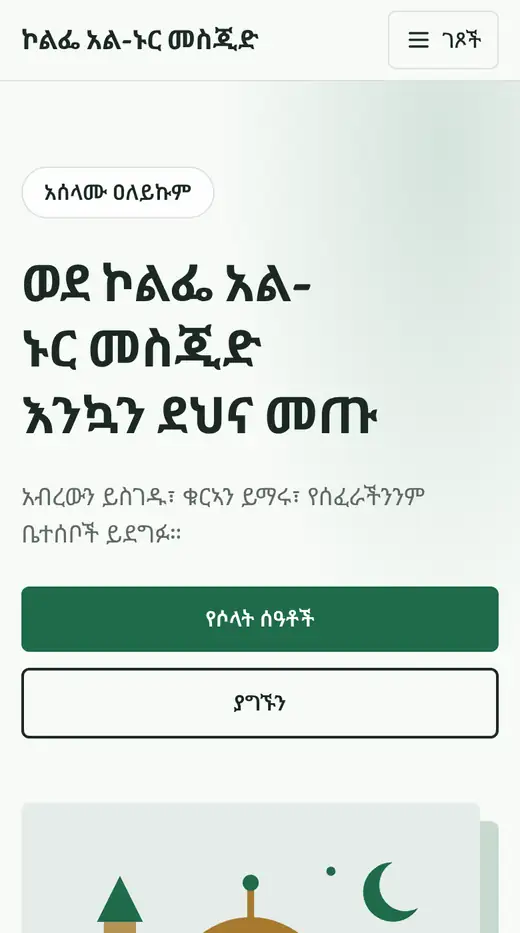
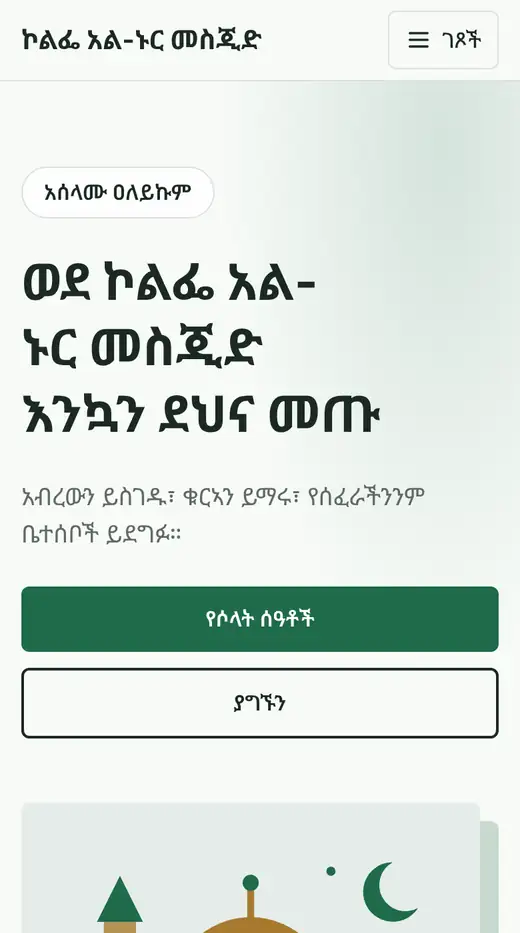
Site template: Amharic pages no longer download the Latin heading font
A heading's spaces alone made the browser fetch it (about 35 KB) and its
arrival shifted the page (performance review). The call bar is opaque,
without a blur. Landing pictures retaken.

Claude-Session: https://claude.ai/code/session_01Eww5A6exJRk8PPreQ8ZqhP

diff --git a/templates/site/src/lib/theme.ts b/templates/site/src/lib/theme.ts
@@ -13,7 +13,7 @@ const fonts: Record<Theme["font"], { heading: string; body: string }> = {
     body: 'system-ui, "Segoe UI", Roboto, "Noto Sans Ethiopic", sans-serif',
   },
   friendly: {
-    heading: '"Nunito", ui-rounded, "SF Pro Rounded", "Nunito", system-ui, "Noto Sans Ethiopic", sans-serif',
+    heading: '"Nunito", ui-rounded, "SF Pro Rounded", system-ui, "Noto Sans Ethiopic", sans-serif',
     body: 'system-ui, "Segoe UI", Roboto, "Noto Sans Ethiopic", sans-serif',
   },
 };
@@ -37,7 +37,9 @@ export function themeVariables(theme: Theme, lang: Lang): Record<string, string>
     "--site-line": tint(theme.text, 0.85),
     "--site-focus": focusColor(theme),
     "--site-radius": radii[theme.radius],
-    "--site-font-heading": amharicFirst + fonts[theme.font].heading,
+    // Amharic pages skip the Latin display font: a heading's spaces alone would make the
+    // browser download it, and its arrival would shift the page.
+    "--site-font-heading": lang === "am" ? amharicFirst + fonts[theme.font].body : fonts[theme.font].heading,
     "--site-font-body": amharicFirst + fonts[theme.font].body,
   };
 }

diff --git a/templates/site/src/design.css b/templates/site/src/design.css
@@ -141,9 +141,8 @@
     display: flex;
     gap: 0.5rem;
     border-top: 1px solid var(--site-line);
-    background: color-mix(in oklab, var(--site-background) 94%, transparent);
+    background: var(--site-background);
     padding: 0.5rem 0.75rem calc(0.5rem + env(safe-area-inset-bottom));
-    backdrop-filter: blur(8px);
   }
   .sticky-actions .btn {
     flex: 1;
